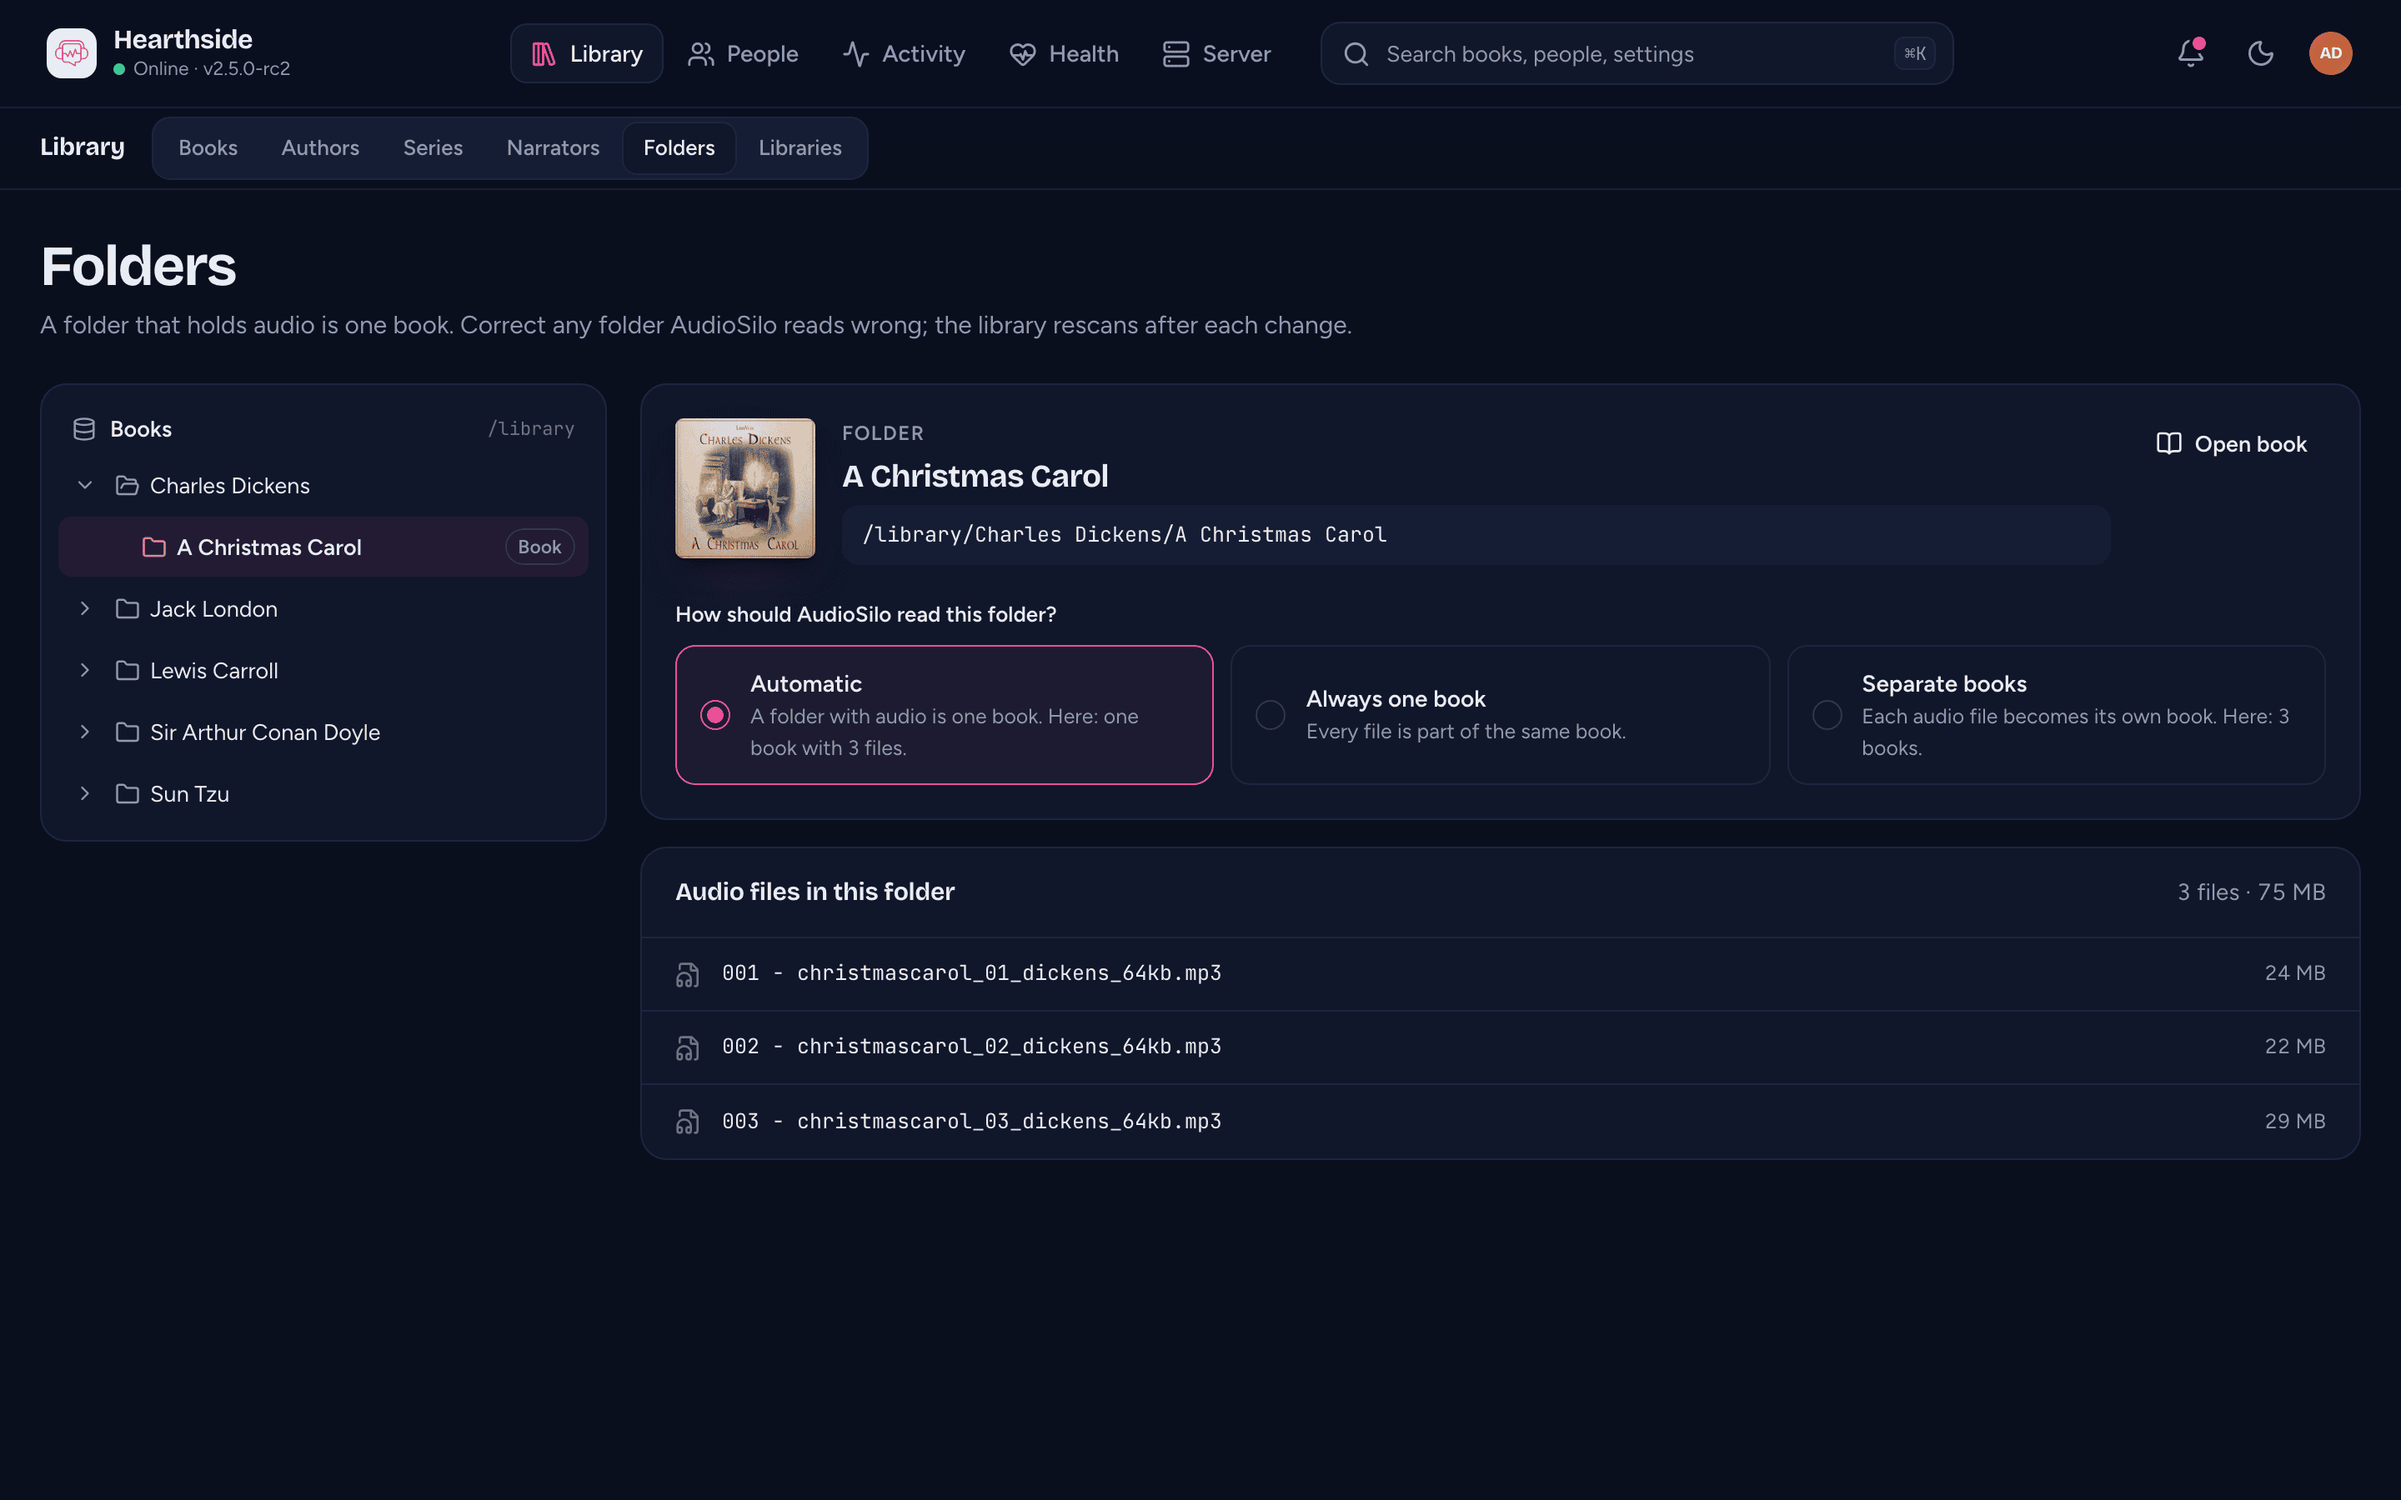
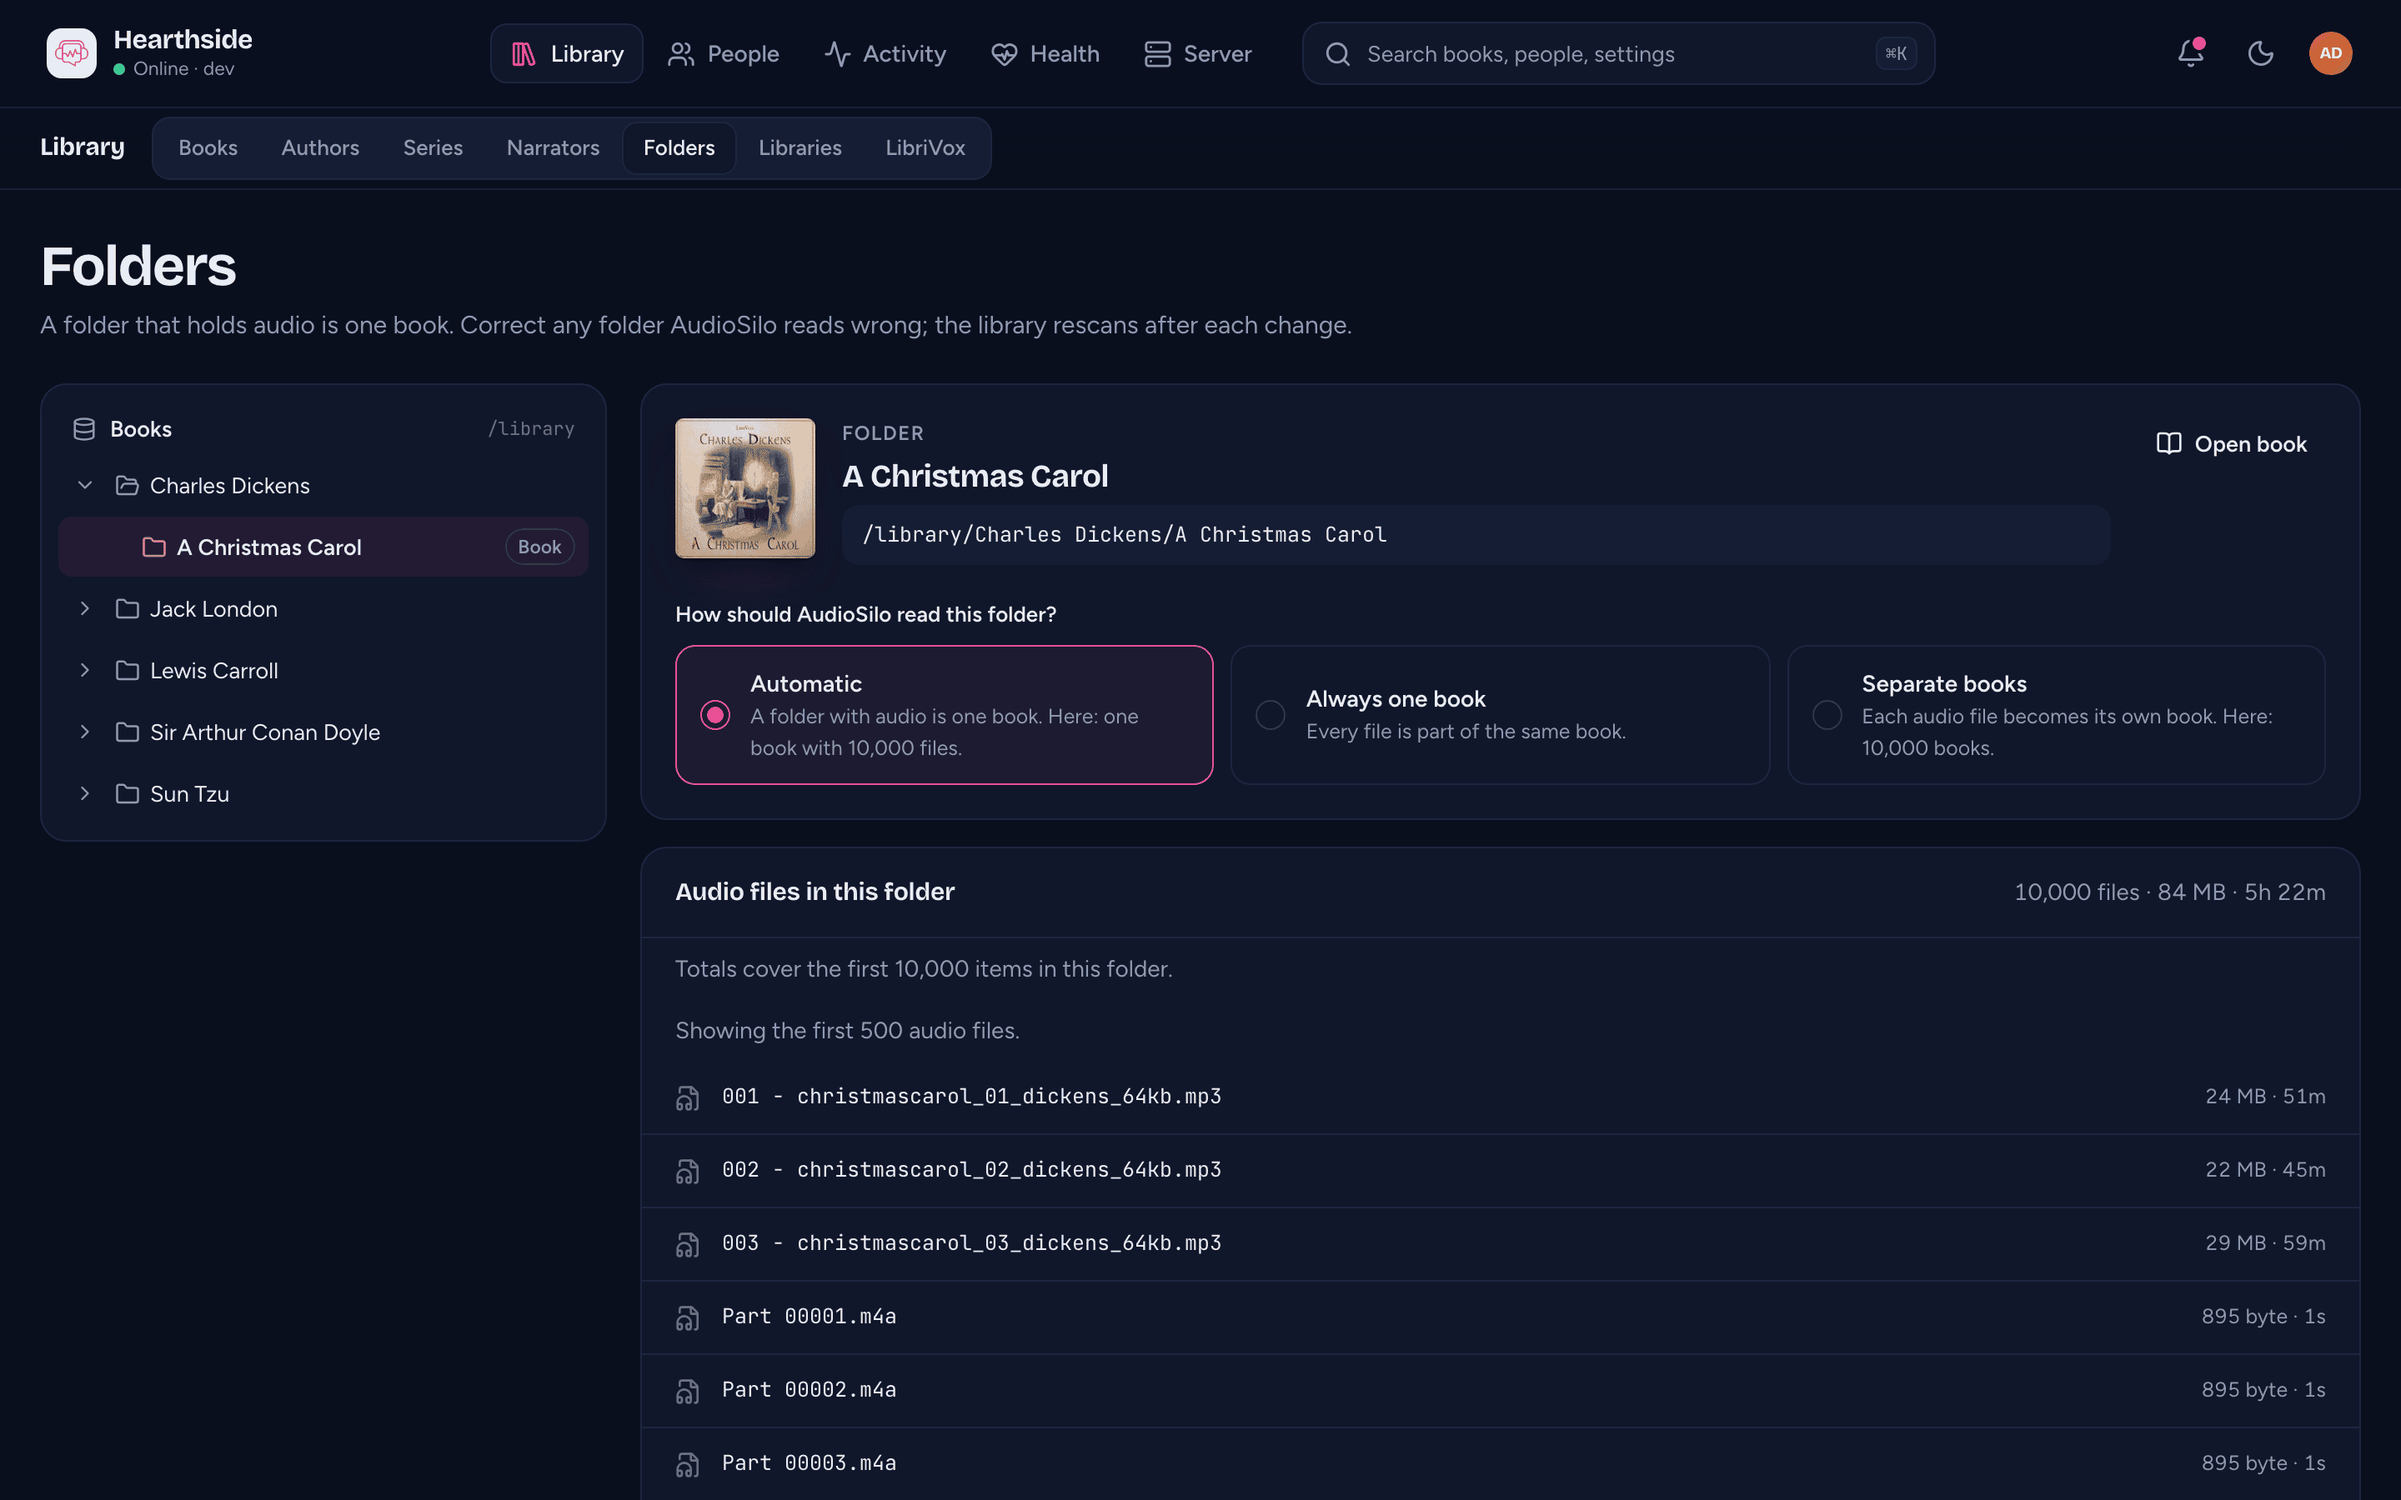
Show console addresses, folder limits and former shares in the screenshots (#358)
Recaptures three console screenshots through screenshots/run.sh after
KodeStar/audiosilo-server#569 (SRV-CONSOLE-A): admin/overview.png (the
Server card with distinct away and home addresses), admin/folders.png (a
10,000-file folder with its count, size, length and both limit notes)
and admin/shares.png (a former grant labelled Folder share (Fiction)
beside a whole-library grant with an extra folder from another library).
The fixtures are staged in a private data dir (hard links, removed
after) and the staged shares are removed afterwards, so no other shot's
counts move. libraries.md says the Here: counts come from the same first
10,000; screenshots/README.md covers the new fixtures. Every PNG comes
from the pipeline.

diff --git a/screenshots/README.md b/screenshots/README.md
@@ -148,9 +148,21 @@ through the API with a daily schedule and skip rules. The taller
 `admin/library-edit.png` includes the explanation under **Book details come from**.
 The Inbox is added after the main Books screens so they keep showing only the seeded library.
 
+`admin/shares.png` is taken once the Inbox exists. It writes, with SQLite, the
+rules an older server allowed: a former grant (**Library: Fiction**, described
+"Whole library", no grant mark, sharing Jack London), which the console lists as
+**Folder share (Fiction)**, and an extra Inbox folder (Folk Tales) on the Books
+grant. Both are deleted right after the shot. `admin/overview.png` answers
+`/api/v1/addresses` in the browser with a public and a home address, so the
+Server card shows both lines without changing the server's settings (the
+invite shots keep the capture's own address).
+
 `library-report.mjs` starts the same `SERVER_BIN` with a private data directory
-for the metadata and large-library shots. Its loopback metadata service answers
-the lookup for the archive's copy of **A Christmas Carol** with 404 and
+for the metadata, large-library and Folders shots. For `admin/folders.png` it
+copies the seeded library and adds more than 10,000 one-second parts (hard
+links to one encoded clip) to **A Christmas Carol**, so the page shows both
+its listing limits: totals over the first 10,000 items and the first 500 files.
+Its loopback metadata service answers the lookup for the archive's copy of **A Christmas Carol** with 404 and
 also returns 404 when the server reports that ASIN. The book has an ISBN set
 through the admin API. The fixture waits for the declined report (`not_offered`)
 and the scheduler's next daily tick. `admin/settings-metadata.png` shows the
@@ -546,6 +558,10 @@ server branch without writing into it:
 SERVER_BIN=/tmp/shots/audiosilo FRONTEND=../../audiosilo-frontend-wt \
   SKIP_ADMIN=1 SKIP_META=1 SHOTS_ONLY=web-player/ ./run.sh
 ```
+
+`WEB_DIR=<dir>` uses a web export built elsewhere instead of `FRONTEND/dist`.
+`run.sh` builds `FRONTEND/dist` when it is missing, but stops when a given
+`WEB_DIR` holds no `index.html`.
 
 `SHOTS_PORT`, `SHOTS_SETUP_PORT` and `SHOTS_META_PORT` move the three servers
 off 8790 / 8791 / 8795 when a run in another checkout (a worktree, say) already

diff --git a/docs-users/admin/libraries.md b/docs-users/admin/libraries.md
@@ -207,7 +207,7 @@ folder directly inside this folder (see
 a folder in the tree. The page shows the three choices with what each would
 mean for that folder ("Here: 12 books."), then the folder's audio files.
 
-![Library > Folders](/img/screenshots/admin/folders.png)
+![The first 10,000 audio files in A Christmas Carol total 84 MB and 5 hours 22 minutes. The list shows the first 500.](/img/screenshots/admin/folders.png)
 
 If the folder is a book, **Open book** opens its [book page](books.md#a-books-page).
 On the book's page, **Change detection** opens its folder here. You can
@@ -218,8 +218,9 @@ and shows their combined size, and their total length when every file's length
 is known. It lists up to 500 of them, with a note when there are more.
 
 In a folder with more than 10,000 items, the totals cover the first 10,000 and
-the file list says so. Folders count first, so a folder holding more than 10,000
-other folders can show no audio files at all.
+the file list says so. The counts in the three choices ("Here: 10,000 books.")
+come from the same first 10,000. Folders count first, so a folder holding more
+than 10,000 other folders can show no audio files at all.
 
 Use the arrow keys to move through the folder tree and Enter to select a folder.
 **Show more** loads up to 500 more items. A direct link to a folder opens it

diff --git a/docs-developers/server/web-ui.md b/docs-developers/server/web-ui.md
@@ -148,7 +148,7 @@ aren't valid `fs` paths (`..` segments) never resolve to a file.
 
 ## The admin console (`admin-ui`)
 
-![The admin console's overview](/img/screenshots/admin/overview.png)
+![The admin Overview shows library totals and the Server card with separate away and home addresses](/img/screenshots/admin/overview.png)
 
 The admin console is a single-page app in the **Shelf** design. Its plan lives
 in the workspace's `ADMIN-CONSOLE-PLAN.md`, and its design system in

diff --git a/docs-users/admin/sharing.md b/docs-users/admin/sharing.md
@@ -12,7 +12,7 @@ To give someone a whole library, you don't need a share: pick the library when
 you [invite them](users-and-invites.md#inviting-someone), or use **Give
 access** on their [Access tab](users-and-invites.md#access).
 
-![The Shares page](/img/screenshots/admin/shares.png)
+![The Shares page lists Folder share (Fiction) and whole-library access to Books with the Folk Tales folder from Inbox](/img/screenshots/admin/shares.png)
 
 ## How access works
 

diff --git a/docs-users/admin/console-tour.md b/docs-users/admin/console-tour.md
@@ -40,7 +40,7 @@ and your browser offers to install it.
 
 ## The layout
 
-![The console's overview](/img/screenshots/admin/overview.png)
+![Overview shows who is listening and lists the away and home addresses on the Server card](/img/screenshots/admin/overview.png)
 
 The bar along the top of every page has:
 
